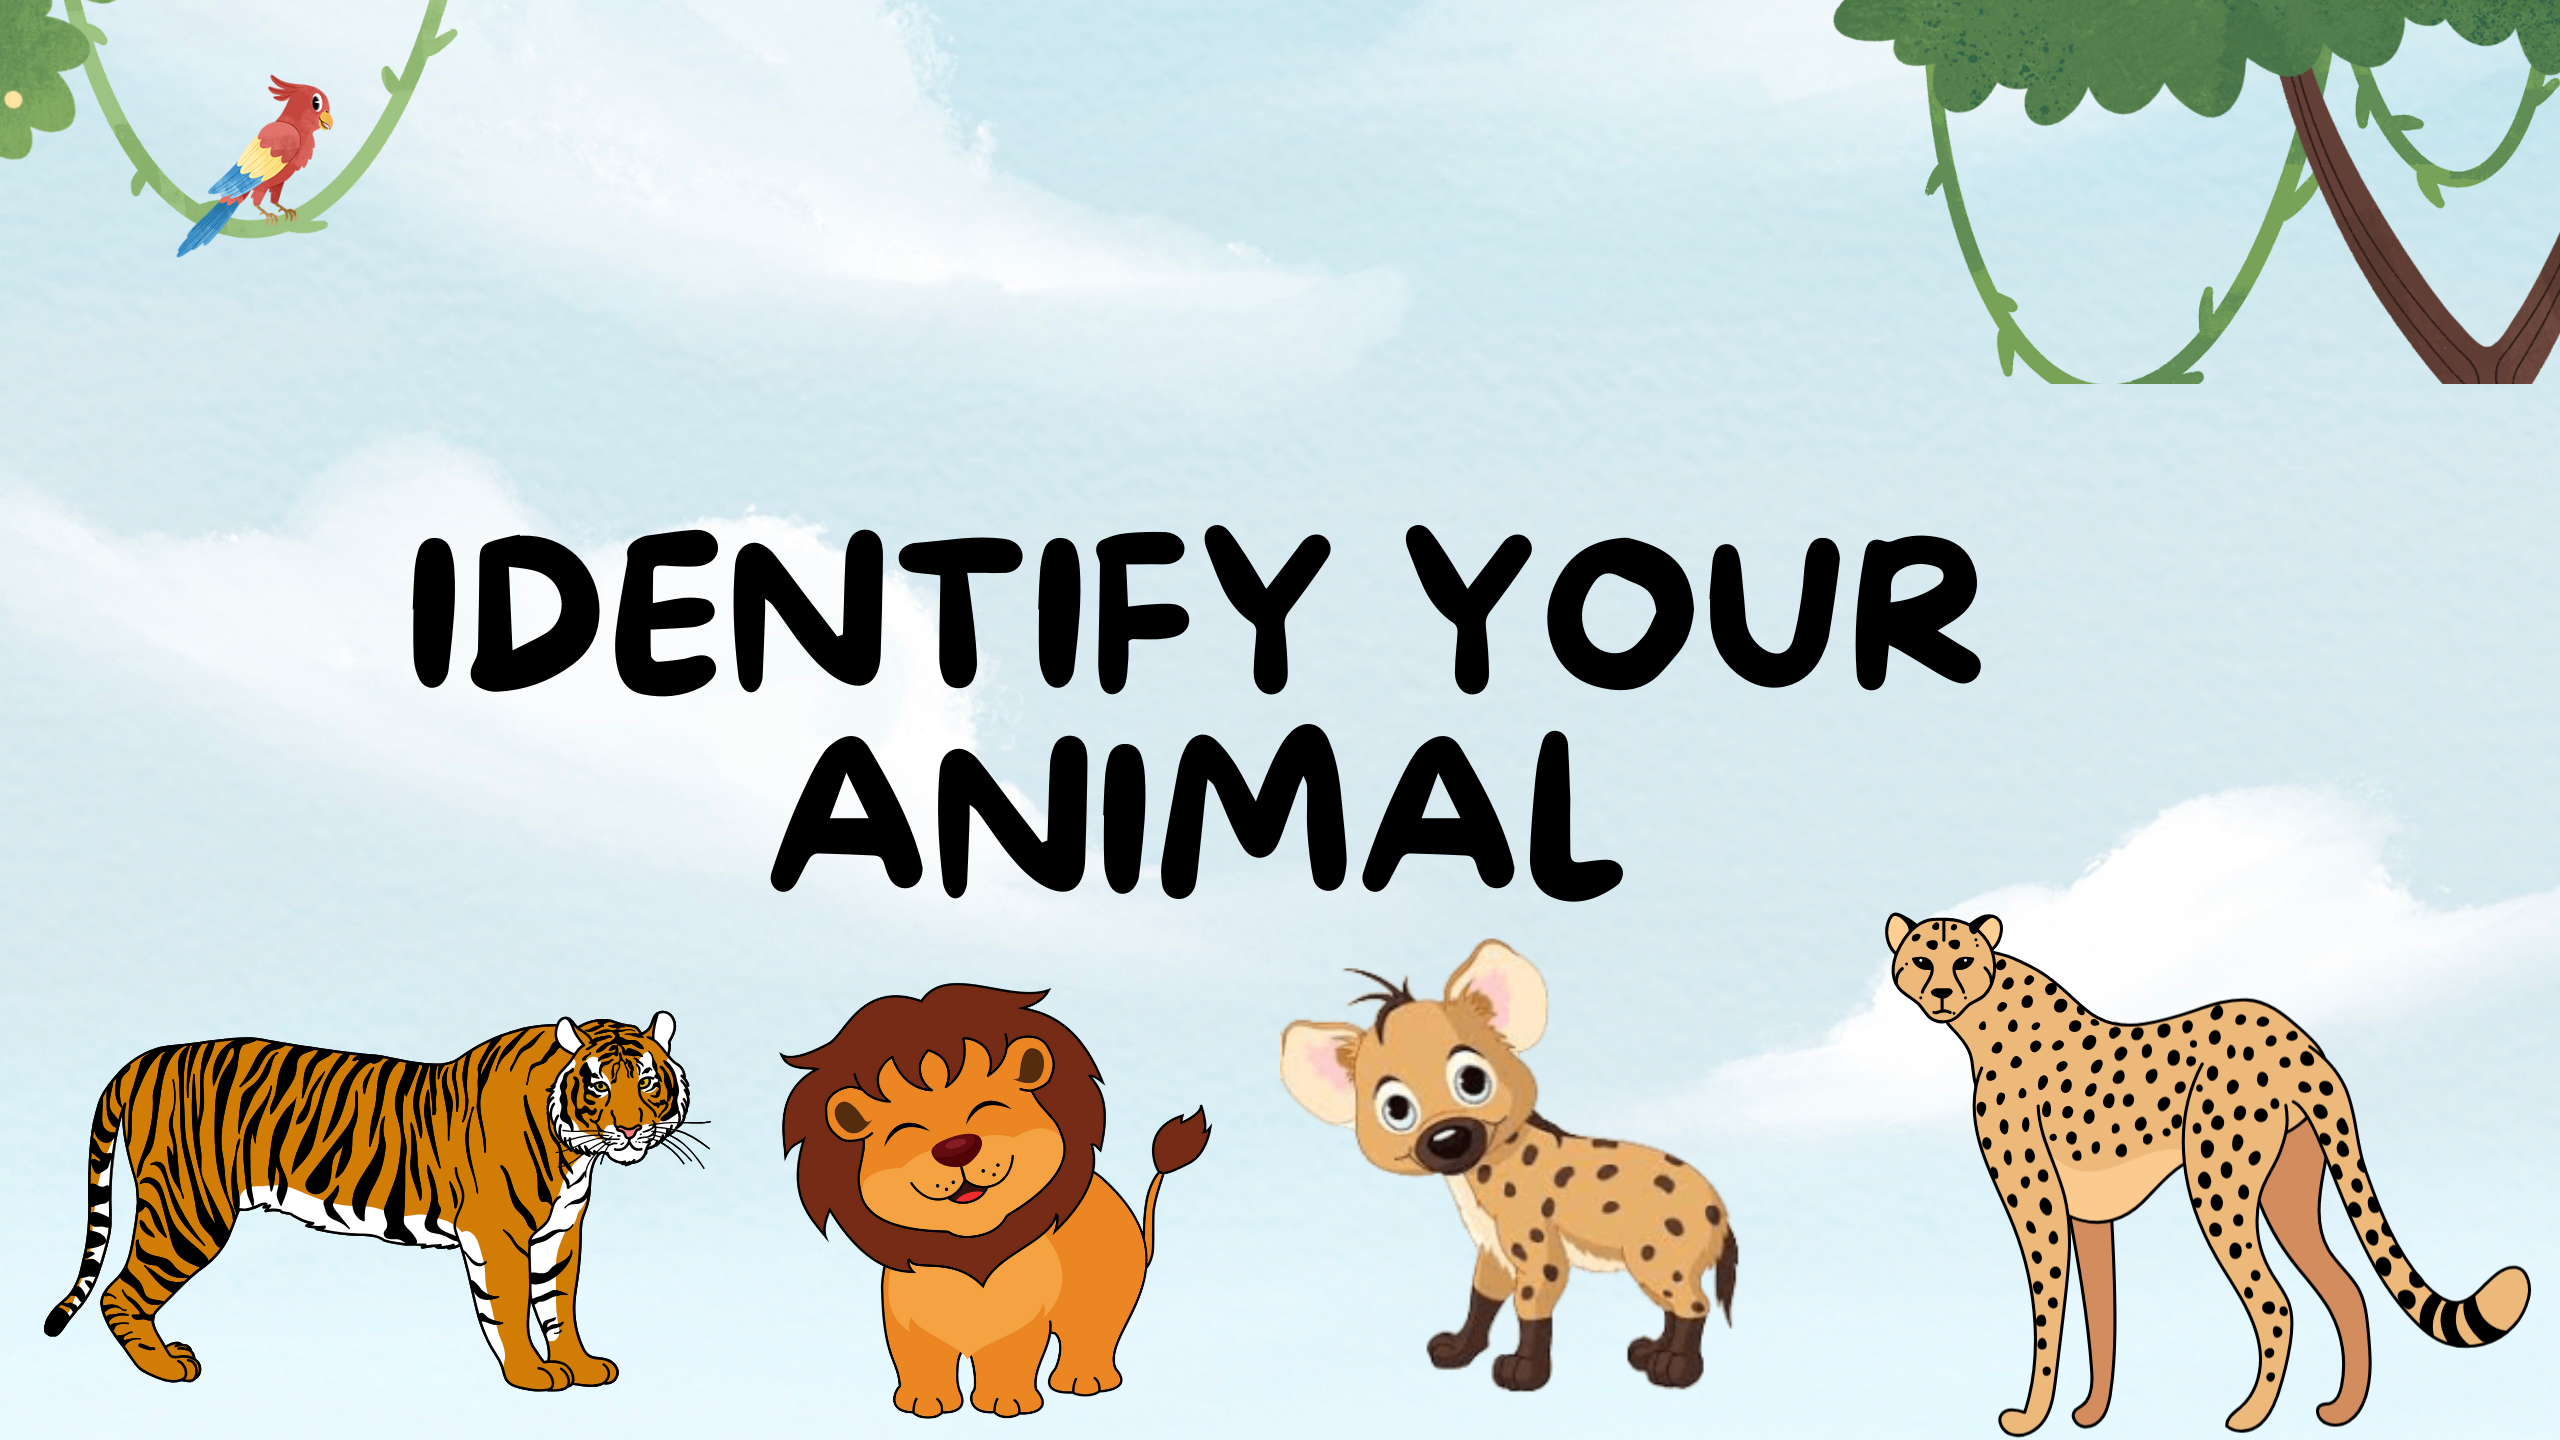
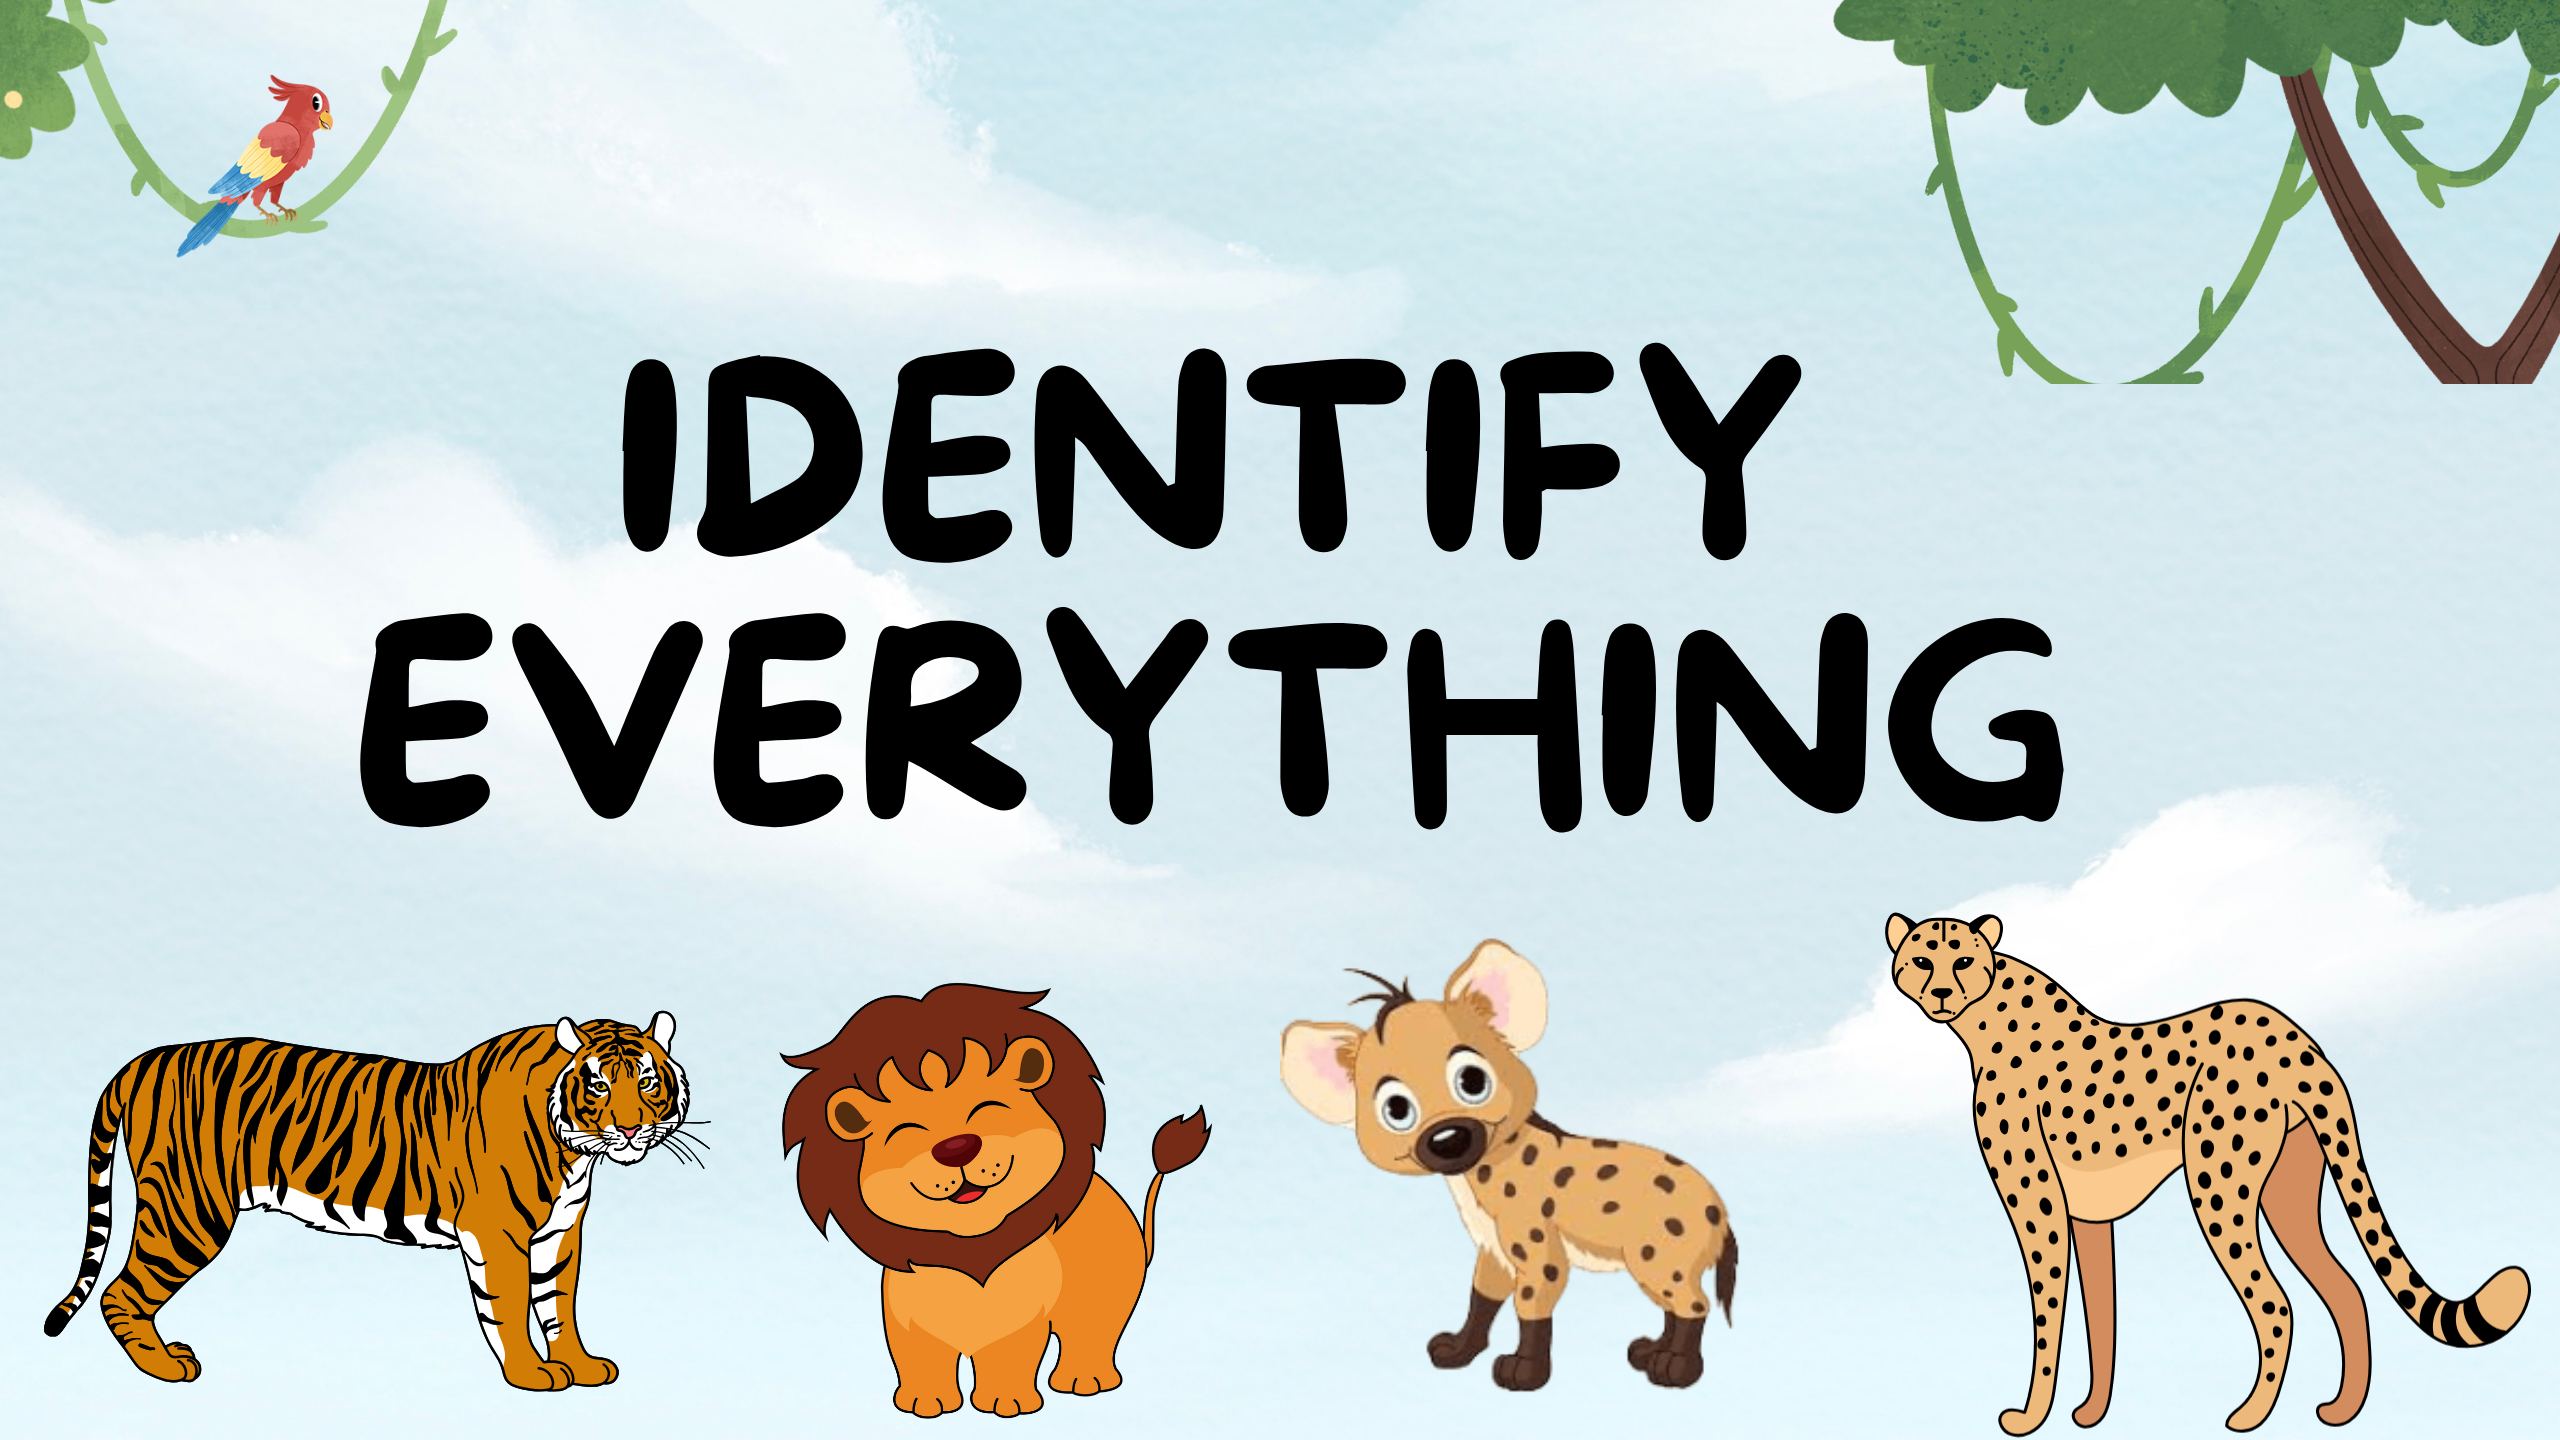
udpated image need 2nd phase

Changed region(s): [[0.125, 0.2188, 0.8125, 0.625]]

diff --git a/src/app.py b/src/app.py
@@ -5,6 +5,11 @@ from tensorflow.keras.applications import ResNet50
 from tensorflow.keras.preprocessing import image
 from tensorflow.keras.applications.resnet50 import preprocess_input, decode_predictions
 
+
+st.markdown("<h1 style='text-align: center;'>The Identity Everything</h1>", unsafe_allow_html=True)
+st.markdown("<br>", unsafe_allow_html=True)  # Add space below the title
+st.image('https://github.com/WinsonBaring/Machine-Learning-Classification/blob/main/bg.png?raw=true', use_column_width=True)
+
 # Load pre-trained ResNet50 model
 model = ResNet50(weights='imagenet')
 
@@ -24,7 +29,6 @@ def predict_image(img):
     return decoded_preds
 
 # Streamlit UI
-st.title("ResNet50 Image Classifier")
 
 # File uploader
 uploaded_file = st.file_uploader("Choose an image...", type=["jpg", "jpeg", "png"])
